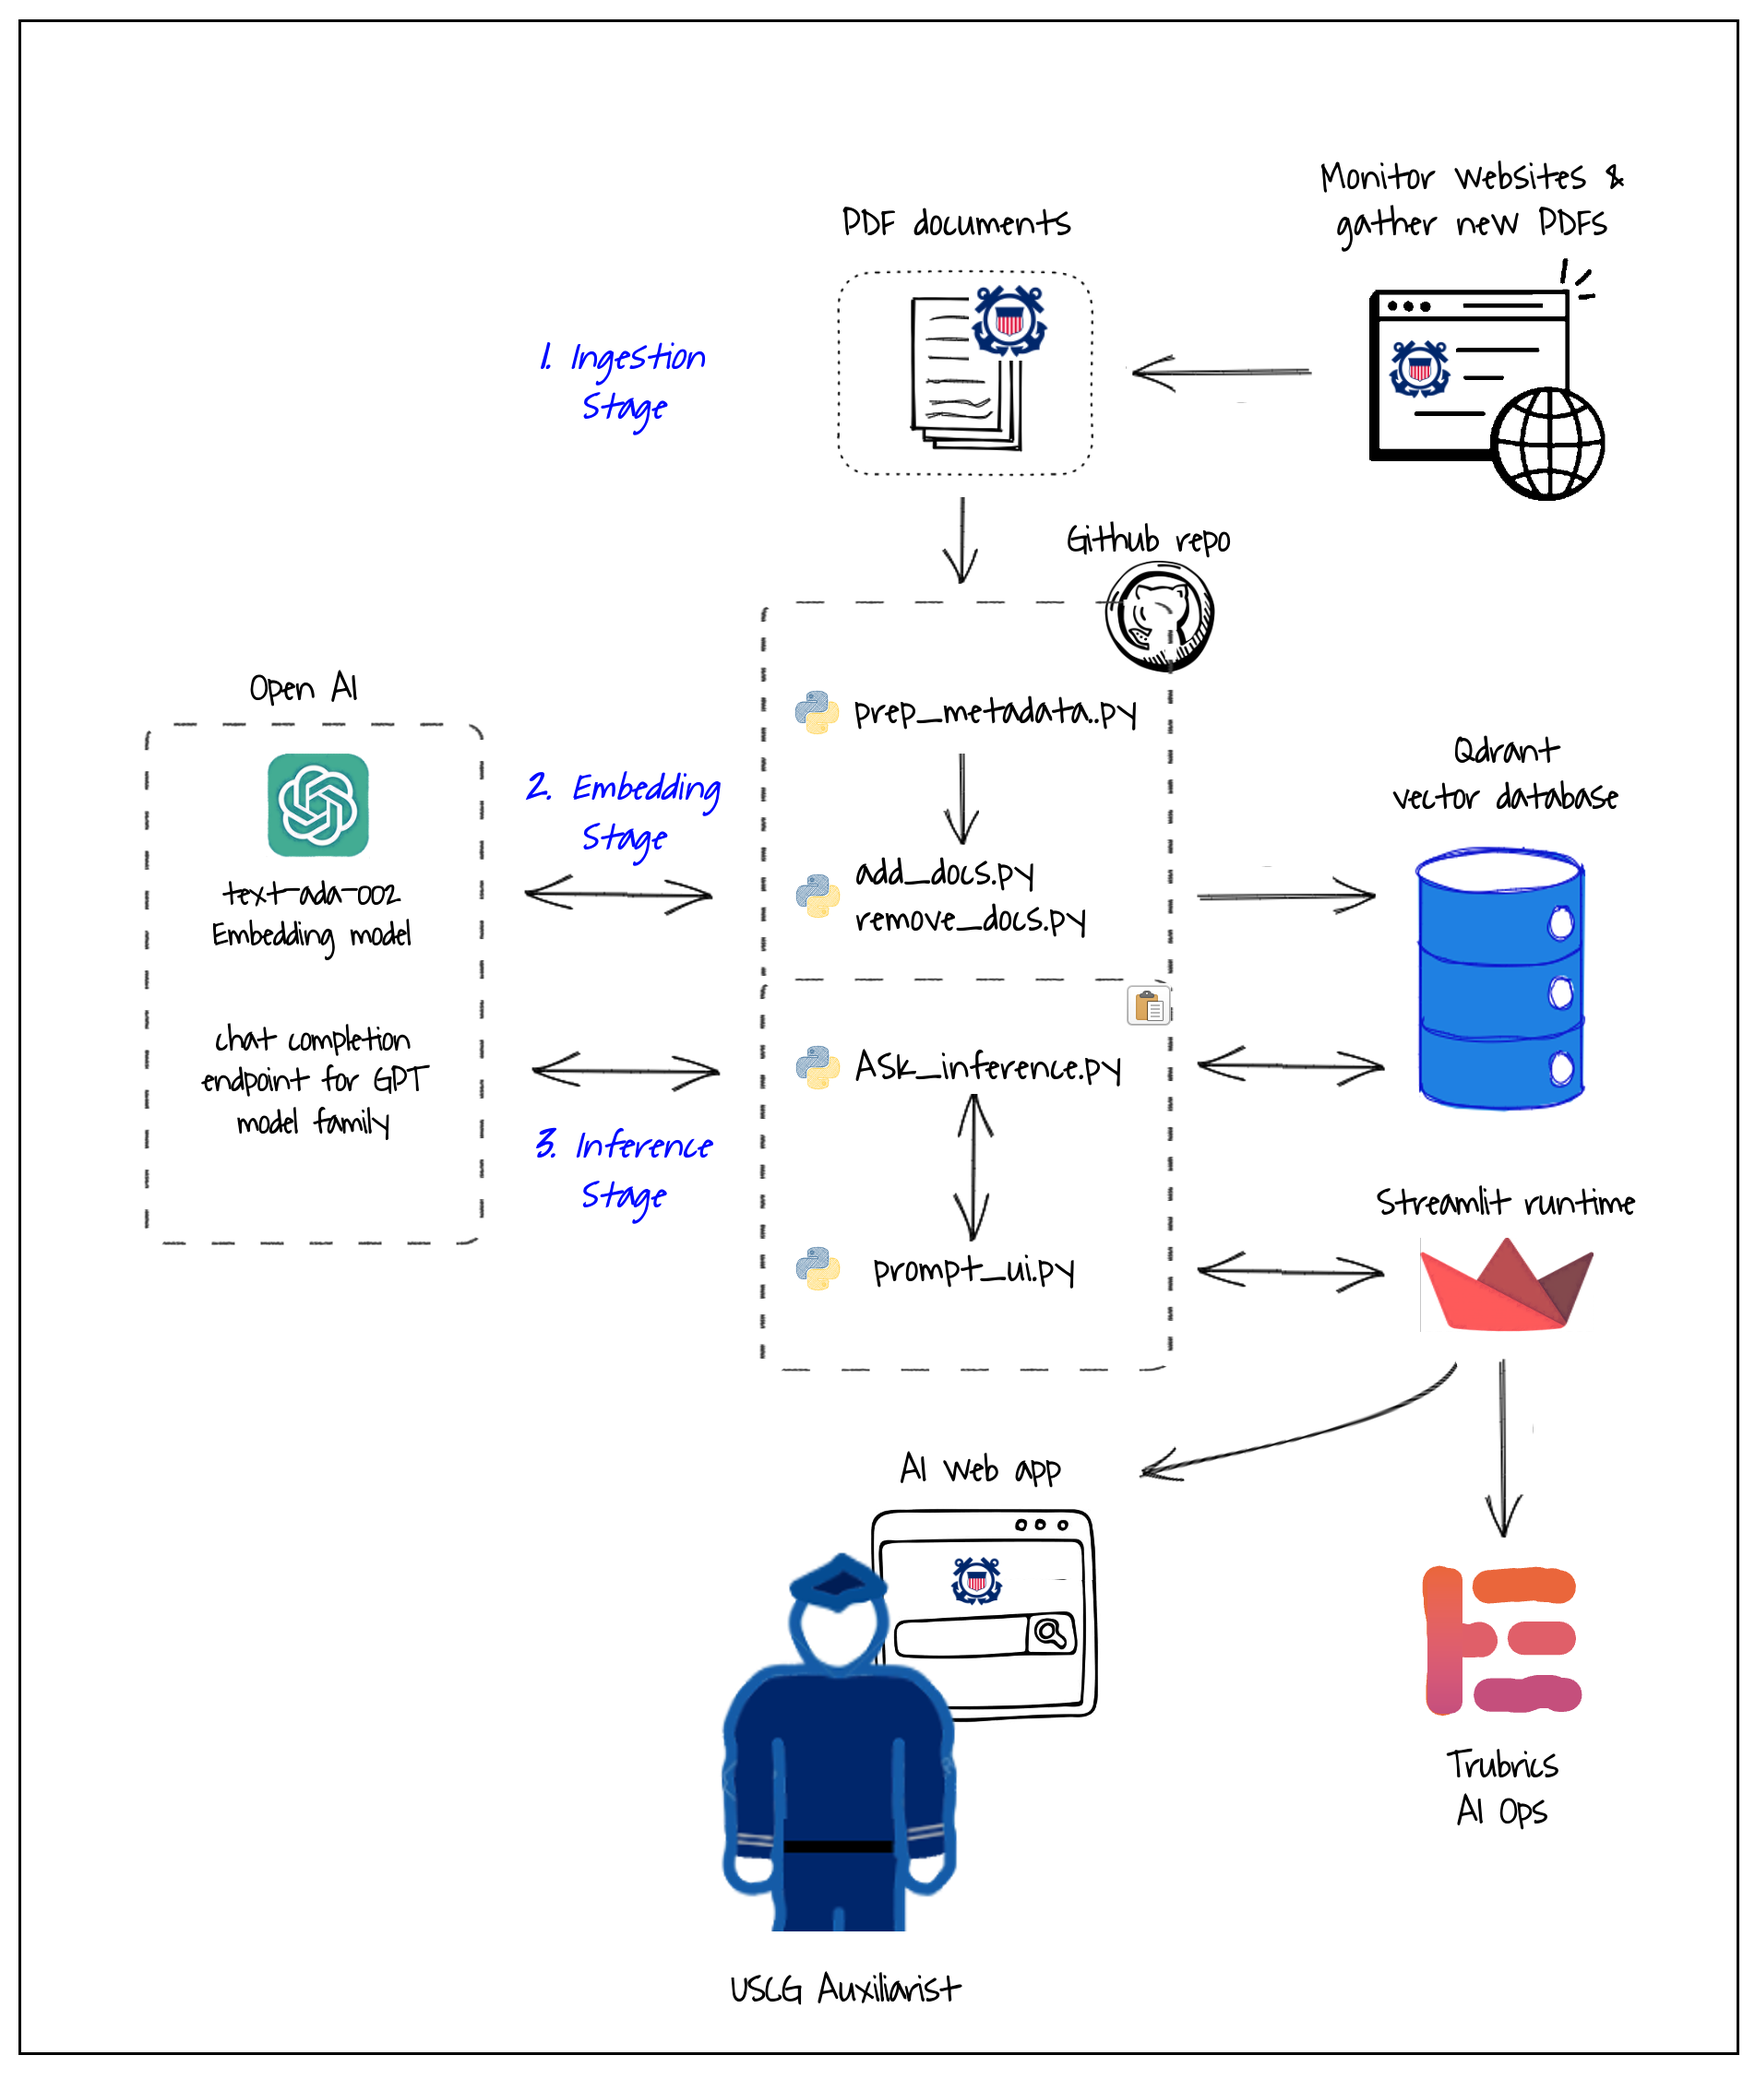
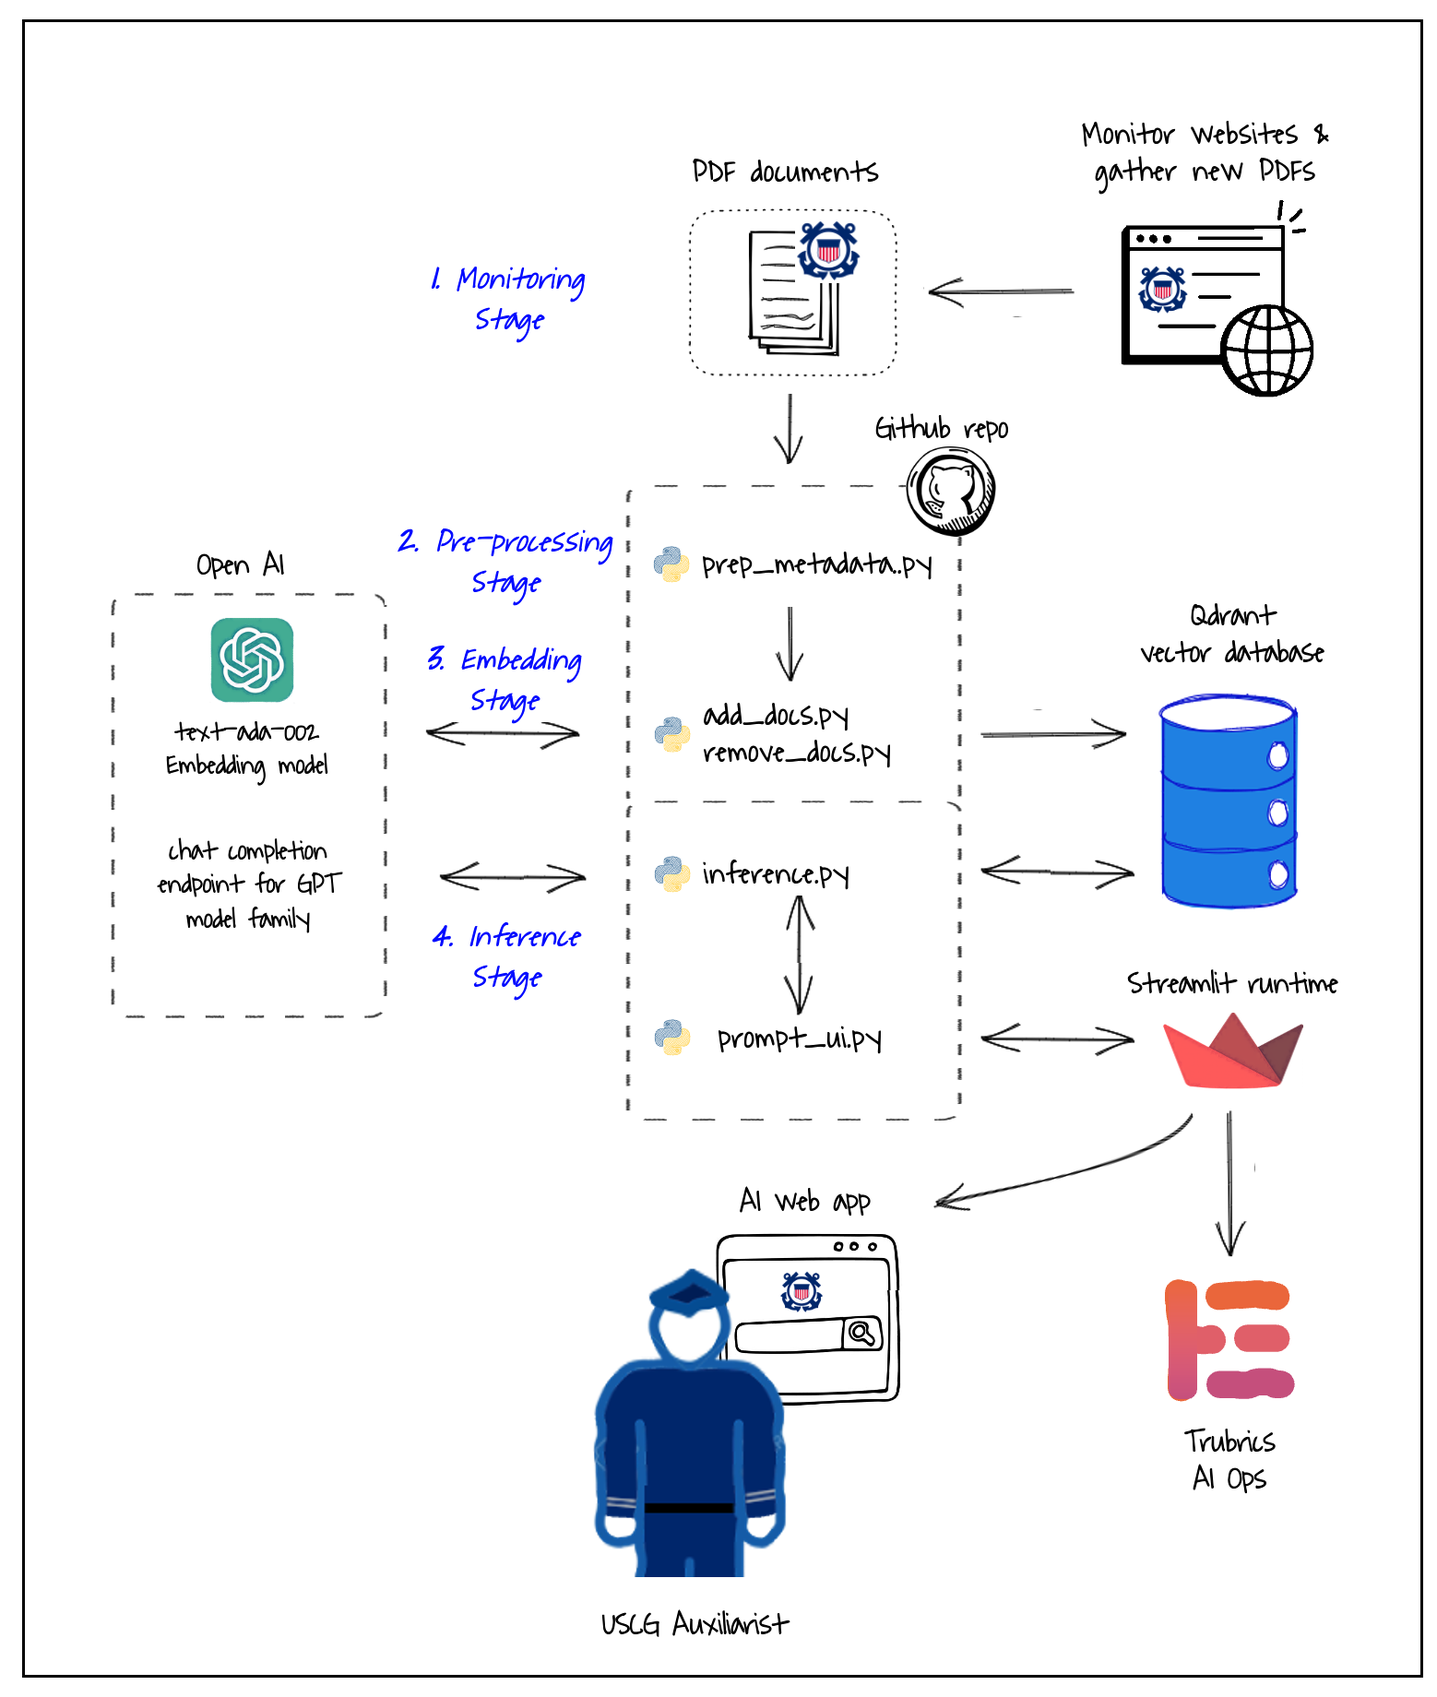
changelog [0.6.1] - 2024-09-07

diff --git a/prompt_ui.py b/prompt_ui.py
@@ -1,7 +1,7 @@
 import streamlit as st 
 from trubrics.integrations.streamlit import FeedbackCollector
-import ASK_inference as ASK # both scripts must be in same directory for this to work
-from ASK_inference import config
+import inference as ASK # both scripts must be in same directory for this to work
+from inference import config
 import datetime, time
 from streamlit_extras.stylable_container import stylable_container
 

diff --git a/config/what_happens_when_i.py b/config/what_happens_when_i.py
@@ -1,9 +1,9 @@
 import streamlit as st 
 import datetime, time, os, sys
 from trubrics.integrations.streamlit import FeedbackCollector
-import ASK_inference as ASK
+import inference as ASK
 from qdrant_client import QdrantClient
-from ASK_inference import config
+from inference import config
 from streamlit_extras.stylable_container import stylable_container
 
 

diff --git a/inference.py b/inference.py
@@ -194,7 +194,7 @@ def rag_dummy(query, retriever):
     Returns a dummy canned response instead of calling the LLM
     '''
 
-    with open("utils/dummy_response.pkl", "rb") as file:
+    with open("config/dummy_response.pkl", "rb") as file:
         dummy_response = pickle.load(file)
     return dummy_response
         

diff --git a/pages/Library.py b/pages/Library.py
@@ -9,7 +9,7 @@ import base64
 
 parent_dir = os.path.dirname(os.path.dirname(os.path.abspath(__file__)))
 sys.path.insert(0, parent_dir)
-import ASK_inference as ASK
+import inference as ASK
 
 st.set_page_config(page_title="ASK Library", initial_sidebar_state="collapsed")
 

diff --git a/docs/roadmap.md b/docs/roadmap.md
@@ -13,20 +13,10 @@ Things I plan to do over the coming months to continue to improve ASK
 [x] Explore better prompts through prompt templates  
 [x] Tune retrieval hyperparamters such as lambda, k-means 
 [x] Tag documents with effective date  
-[x] Get Streamlit working faster via st.session_state and st.cache_resource  
-[x] Insert a pre-prompting/inference step to ensure all relevant dos are retrieved
+[x] Insert a pre-prompting/inference step to ensure all relevant docs are retrieved
 [ ] Reason through contradictions in corpus docs (e.g., conflicting policies)
-[ ] Index additional metadata  
-[ ] Include effective date in retrieval   
-[ ] Give greater to weight to more recent documents: currently assessing   
-[ ] Explore other chunking strategies: may not be necessary  
+[ ] Include effective date in retrieval and explore giving greater to weight to more recent documents: currently assessing 
 [ ] Test other private and [open-source embedding models](https://huggingface.co/spaces/mteb/leaderboard) incl. cohere, anarchy  
-
-##### UI Enhancements: making ASK easier to use  
-[x] Implement workaround chat input field on mobile devices (a bug with streamlit)  
-[x] Bring feedback back into the UI  
-[x] Incorporate better visual status into UI  
-[x] Add a warning when the underlying LLM (e.g., OpenAI) is down  
 
 ##### Instrumentation: tooling to measure and assess performance  
 [x] Assess instrumentation providers: wandb, neptune, Trubrics  
@@ -38,5 +28,13 @@ Things I plan to do over the coming months to continue to improve ASK
 
 ##### Administration: simplify backend through automation  
 [x] Evaluate Vectara db  
-[ ] Utilize agents to replace programmatic work such as bringing metadata into chunks  
-[ ] Explore having agent extract doc purpose and incoporate as metadata  
+[x] Scheduled checks of Qdrant and Streamlit for health via Github Actions
+[ ] Explore alternative database such as Weaviate that can separate doc level info and page level info into separate collections
+[ ] Explore model-based metadata extraction using unstructured
+
+##### UI Enhancements: making ASK easier and more enjoyable to use  
+[x] Implement workaround chat input field on mobile devices (a bug with streamlit)  
+[x] Bring feedback back into the UI  
+[x] Get Streamlit working faster via st.session_state and st.cache_resource
+[x] Incorporate better visual status into UI  
+[x] Add a warning when the underlying LLM (e.g., OpenAI) is down  

diff --git a/docs/CHANGELOG.md b/docs/CHANGELOG.md
@@ -2,8 +2,16 @@
 # Project ASK Change Log
 All notable changes to this project will be documented in this file.  
 
-## [Unreleased]
+## [0.6.1] - 2024-09-07
+### Features
 - Add additional metadata keys and values into library data, including effective date
+- Moved vector db admin tools into separate git repo
+- Updated data_flow_diagram.png
+- Reorganized repo file directory
+
+### Bug fixes
+- Addressed bug in UUID approach. All docs to be re-tagged with new UUIDs in next database re-build  
+
 
 ## [0.5.3] - 2023-12-19
 ### Features
